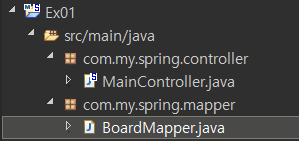
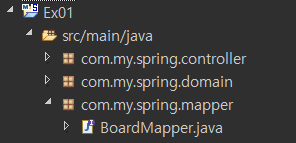
ㅑㅡㅎ

diff --git a/Spring/_posts/2019-05-13-MyBatis_Oracle2.md b/Spring/_posts/2019-05-13-MyBatis_Oracle2.md
@@ -12,4 +12,37 @@ comments: true
 </head>
  
  이 전 포스팅에서 여러가지 패키지, 인터페이스, 클래스 등을 만들었다.<br>
- 이제
+ 이제부터 각각의 역할과 사용법에 대해 알아보자.
+
+## *Mapper.xml
+
+  <img src="/assets/img/spring/oracle3.png">
+
+ 우선 src/main/resources/mapper 안에 생성한 BoardMapper.xml 파일을 보자.<br>
+ 이 파일은 **SQL문**을 작성할 파일이 된다.
+
+ ~~~xml
+<bean class="org.mybatis.spring.SqlSessionFactoryBean" id="SqlSessionFactory">
+  <property name="dataSource" ref="dataSource" />
+  <property value="classpath:mybatis-config.xml" name="configLocation" />
+  <property value="classpath:/mapper/*Mapper.xml" name="mapperLocations" />
+</bean>
+ ~~~
+
+ 우리가 이전에 root-context.xml에 MyBatis 연동을 위한 설정을 할때 수정했던 내용이다.<br>
+ 위 내용을 보면 맨 아래 부분에 **name="mapperLocations"**라 작성된 부분에 클래스 패스로 **/mapper/*Mapper.xml**을 작성해 놓았다. <br>
+ 이 뜻은 /mapper 안에 있는 *Mapper.xml(뒷 부분이 Mapper.xml로 끝나는 파일)에 대해 매퍼로 지정한다는 의미다.<br>
+ 따라서 우리가 생성한 BoardMapepr.xml역시 매퍼로 지정된다.
+
+~~~xml
+<!-- 전체 내용 조회 -->
+<select id="viewAll" resultType="com.my.spring.domain.BoardVO">
+  SELECT * FROM board;
+</select>
+~~~
+
+ BoardMapper.xml 파일에 위의 내용을 작성하자.<br>
+ **id**는 해당 SQL문을 호출하기 위한 이름이고 **resultType**은 결과값을 받을 타입을 지정한 것이다.<br>
+ 결과값으론 이전에 만든 BoardVO타입으로 하되 <u>패키지명까지 정확히</u> 써줘야 한다.<br>
+ src/main/resources 안에 만든 **mybatis-config.xml**파일을 이용하면 **alias(별칭)**를 등록할 수 있어<br>
+ 패키지명까지 쓸 필요없이 간단히 쓸 수 있지만 이번 포스팅에선 그 과정을 생략한다.

diff --git a/Spring/_posts/2019-05-12-MyBatis_Oracle.md b/Spring/_posts/2019-05-12-MyBatis_Oracle.md
@@ -2,7 +2,7 @@
 layout: post
 title: <p>[Spring] 스프링 MyBatis로 Oracle 연동하기 </p>
 description: >
-  MyBatis를 이용해 Spring 환경에서 DB 연동하는법을 알아본다
+  Spring MyBatis 연동을 통해 Oracle 데이터를 스프링 프로젝트에서 사용하는 법을 알아본다.
 image: /assets/img/programming.jpg
 tags: [Spring, Spring MVC, MyBatis, Oracle, 마이바티스]
 comments: true
@@ -130,7 +130,7 @@ pom.xml에 아래 내용을 추가한 뒤에 시도하면 된다.
 
 <img src="/assets/img/spring/oracle4.png">
 
- 우선 com.my.spring.mapper 패키지(root-context.xml에 정의된 경로)를 생성한 후 BoardMapper.java 클래스를 만든다.
+ 우선 com.my.spring.mapper 패키지(root-context.xml에 정의된 경로)를 생성한 후 BoardMapper.java **인터페이스**를 만든다.
 
 <img src="/assets/img/spring/oracle3.png">
 

diff --git a/Spring/_posts/2019-05-06-DependencyInjection.md b/Spring/_posts/2019-05-06-DependencyInjection.md
@@ -2,7 +2,7 @@
 layout: post
 title: <p>[Spring] 의존성 주입(Dependency Injection) </p>
 description: >
-  스프링을 본격적으로 시작하기 전에 스프링을 이해하기 위한 필수 요소인<br>
+  의존성 주입이란? 스프링을 본격적으로 시작하기 전에 스프링을 이해하기 위한 필수 요소인<br>
   의존성 주입에 대해 알아보자.
 image: /assets/img/programming.jpg
 tags: [의존성 주입, DI, 의존성]

diff --git a/Spring/_posts/2019-05-05-Object_Oriented.md b/Spring/_posts/2019-05-05-Object_Oriented.md
@@ -2,7 +2,7 @@
 layout: post
 title: <p>[Spring] 객체지향 개념(Object-Oriented) </p>
 description: >
-  스프링에 대해 알아보기 전에 객체지향 개념에 대해 알아본다.
+  스프링에 대해 알아보기 전에 스프링을 이해하기 위해 필요한 객체지향 개념에 대해 알아본다.
 image: /assets/img/programming.jpg
 tags: [객체지향, oop, 의존성, 의존성 주입]
 comments: true

diff --git a/Spring/_posts/2019-05-07-SpringProject.md b/Spring/_posts/2019-05-07-SpringProject.md
@@ -2,7 +2,7 @@
 layout: post
 title: <p>[Spring] 스프링 MVC 프로젝트 만들기 </p>
 description: >
-  기본적인 Spring MVC 프로젝트 생성하기
+  스프링 입문을 위한 기본적인 스프링 프로젝트 생성하는 방법을 알아본다.
 image: /assets/img/programming.jpg
 tags: [Spring, spring mvc, spring 프로젝트, spring 만들기, spring 생성]
 
